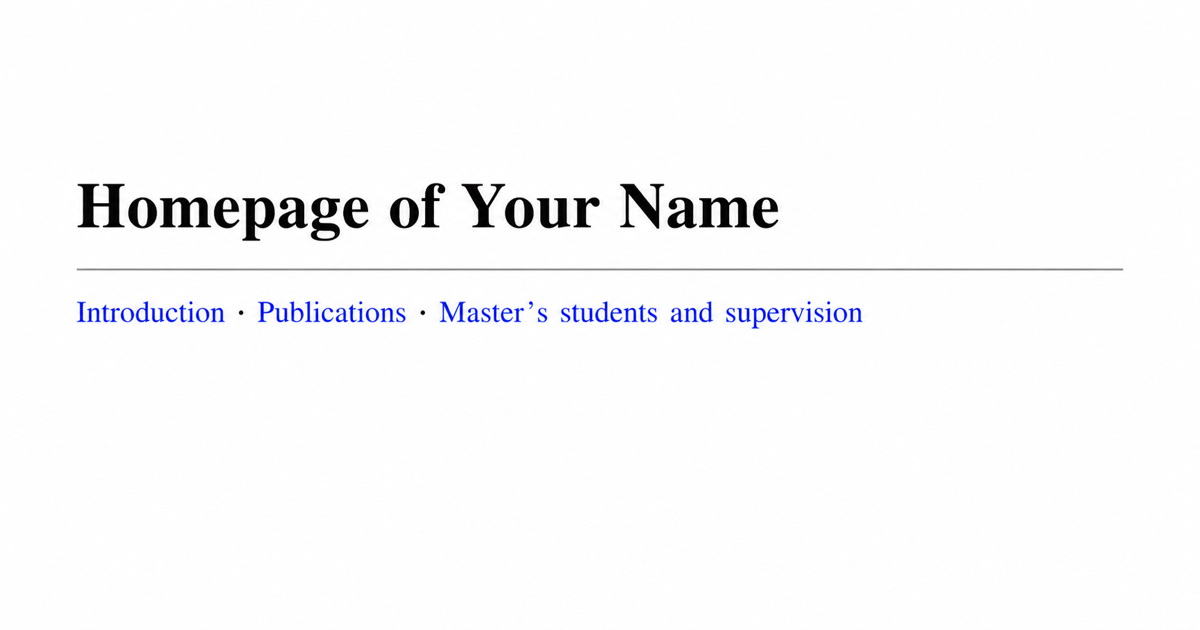
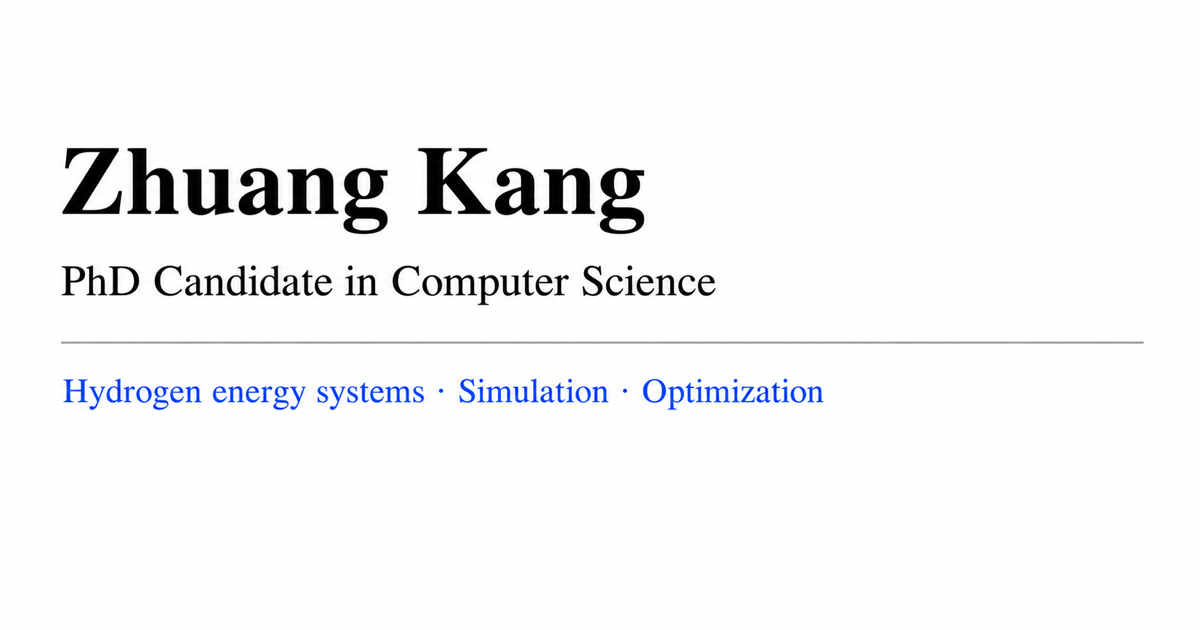
Streamline academic profile content

diff --git a/app/page.tsx b/app/page.tsx
@@ -1,93 +1,85 @@
 const publications = [
   {
-    title: "Title of your most recent publication",
-    authors: "Your Name and Co-author Name",
-    venue: "Journal or Conference Name, 2026",
-    href: "https://doi.org/",
-  },
-  {
-    title: "A second publication title belongs here",
-    authors: "Your Name and Collaborator Name",
-    venue: "Journal or Conference Name, 2025",
-    href: "https://doi.org/",
-  },
-  {
-    title: "An earlier article, chapter, or working paper",
-    authors: "Your Name",
-    venue: "Publisher or Working Paper Series, 2024",
-    href: "https://doi.org/",
+    title: "A Review of Model-Based Optimization for Hydrogen Refueling Stations",
+    authors:
+      "Zhuang Kang, Jacob de Nobel, Michael Emmerich, Thomas Bäck, and Yingjie Fan",
+    venue:
+      "Advances in Evolutionary and Deterministic Methods for Design, Optimization and Control, Springer, 2026",
+    href: "https://link.springer.com/chapter/10.1007/978-3-032-21893-3_17",
   },
 ];
 
-const students = [
+const formerStudents = [
   {
-    name: "Student name",
-    topic: "Master’s thesis topic",
-    period: "2025–2026",
+    name: "Dunxiang Lu",
+    topic:
+      "Energy Management for Hydrogen Refueling Stations: A Synergistic Approach of Cascade Compression Architecture and Deep Reinforcement Learning",
   },
   {
-    name: "Student name",
-    topic: "Master’s thesis topic",
-    period: "2025–2026",
+    name: "Di Xie",
+    topic:
+      "Deep Reinforcement Learning vs. Engineering Rules for Hybrid EV/FCEV Charging Hub Scheduling with Cascade Hydrogen Storage",
   },
+];
+
+const currentStudents = [
   {
-    name: "Student name",
-    topic: "Master’s thesis topic",
-    period: "2024–2025",
+    name: "Dongjie Chen",
+    topic:
+      "Incremental Techno-Economic Analysis of RL-Controlled Cascade Compression-Storage in Hydrogen Refueling Stations",
   },
 ];
 
 export default function Home() {
   return (
     <main id="top">
-      <h1>Homepage of Your Name</h1>
+      <h1>Zhuang Kang</h1>
 
       <section className="profile" aria-label="Profile and contact information">
         <div
           className="photoPlaceholder"
           role="img"
-          aria-label="Placeholder for your photograph"
+          aria-label="Placeholder for a photograph of Zhuang Kang"
         >
           Your photo
         </div>
 
         <div className="contact" id="contact">
           <p>
-            <strong>Your Name</strong>
+            <strong>Zhuang Kang</strong>
             <br />
-            Professor / Researcher
+            PhD Candidate in Computer Science
             <br />
-            <a href="https://www.example.edu/">Department Name</a>
+            <a href="https://liacs.leidenuniv.nl/">
+              Leiden Institute of Advanced Computer Science
+            </a>
             <br />
-            <a href="https://www.example.edu/">University Name</a>
+            <a href="https://www.universiteitleiden.nl/en">Leiden University</a>
             <br />
-            Street and building
+            Einsteinweg 55
             <br />
-            Postal code, City, Country
+            2333 CC Leiden, The Netherlands
           </p>
 
           <p>
             <strong>Email:</strong>{" "}
-            <a href="mailto:your.name@university.edu">
-              your.name@university.edu
-            </a>
-            <br />
-            <strong>Address:</strong>{" "}
-            <a href="https://maps.google.com/?q=University">
-              view on map
+            <a href="mailto:z.kang@liacs.leidenuniv.nl">
+              z.kang@liacs.leidenuniv.nl
             </a>
           </p>
 
           <p>
-            <strong>Publications:</strong>{" "}
-            <a href="https://scholar.google.com/">Google Scholar</a>,{" "}
-            <a href="https://orcid.org/">ORCID</a>,{" "}
-            <a href="#publications">selected publications below</a>
+            <strong>Profiles:</strong>{" "}
+            <a href="https://orcid.org/0009-0009-8694-1947">ORCID</a>,{" "}
+            <a href="#publications">publications</a>
           </p>
         </div>
 
         <nav aria-label="Page sections">
           <ul>
+            <li>
+              <a href="#recent-activities">Recent activities</a>
+            </li>
             <li>
               <a href="#introduction">Introduction</a>
             </li>
@@ -97,11 +89,25 @@ export default function Home() {
             <li>
               <a href="#supervision">Master’s students and supervision</a>
             </li>
-            <li>
-              <a href="#contact">Contact</a>
-            </li>
           </ul>
         </nav>
+      </section>
+
+      <hr />
+
+      <section id="recent-activities">
+        <h2>Recent activities</h2>
+        <hr />
+        <ul>
+          <li>
+            Our review paper, “A Review of Model-Based Optimization for Hydrogen
+            Refueling Stations,” was published by Springer in June 2026. {" "}
+            <a href="https://link.springer.com/chapter/10.1007/978-3-032-21893-3_17">
+              Read the paper
+            </a>
+            .
+          </li>
+        </ul>
       </section>
 
       <hr />
@@ -110,15 +116,21 @@ export default function Home() {
         <h2>Introduction</h2>
         <hr />
         <p>
-          I am a researcher and educator interested in questions that matter
-          both within the university and beyond it. My work combines careful
-          analysis with open collaboration, with the aim of producing research
-          that is rigorous, clearly communicated, and useful to other scholars,
-          students, and practitioners.
+          I am Zhuang Kang (康庄), a PhD candidate in computer science at Leiden
+          University, supervised by Yingjie Fan and Thomas Bäck. I work on
+          HyPro, a Dutch hydrogen research project, where I develop a digital
+          twin of a PEM electrolyzer.
         </p>
+        <p>My research focuses on:</p>
+        <ol>
+          <li>
+            simulation and black-box optimization of electrolyzers; and
+          </li>
+          <li>optimal control of hydrogen energy systems.</li>
+        </ol>
         <p>
-          This text can be replaced with your biography, current position,
-          research interests, and academic background.
+          With a background in mathematics, I now work at the intersection of
+          modeling, optimization, and hydrogen energy systems.
         </p>
       </section>
 
@@ -127,10 +139,6 @@ export default function Home() {
       <section id="publications">
         <h2>Publications</h2>
         <hr />
-        <p>
-          A complete list of publications can be found on my{" "}
-          <a href="https://scholar.google.com/">Google Scholar profile</a>.
-        </p>
         <ol className="publicationList">
           {publications.map((publication) => (
             <li key={publication.title}>
@@ -147,26 +155,41 @@ export default function Home() {
       <section id="supervision">
         <h2>Master’s students and supervision</h2>
         <hr />
-        <p>
-          I supervise master’s work that is well scoped, methodologically sound,
-          and connected to a meaningful research question.
-        </p>
 
-        <h3>Current and recent master’s students</h3>
+        <h3>Completed master’s theses</h3>
         <ul>
-          {students.map((student, index) => (
-            <li key={`${student.name}-${index}`}>
-              <strong>{student.name}</strong> ({student.period}). {student.topic}.
+          {formerStudents.map((student) => (
+            <li key={student.name}>
+              <strong>{student.name}:</strong> {student.topic}
+            </li>
+          ))}
+        </ul>
+
+        <h3>Current master’s students</h3>
+        <ul>
+          {currentStudents.map((student) => (
+            <li key={student.name}>
+              <strong>{student.name}:</strong> {student.topic}
             </li>
           ))}
         </ul>
 
         <h3>Prospective students</h3>
+        <p>I welcome students interested in:</p>
+        <ol>
+          <li>optimal control of energy systems; or</li>
+          <li>multiphysics simulation with OpenFOAM.</li>
+        </ol>
         <p>
-          If you are interested in working with me, please send a short
-          introduction, the name of your programme, and one or two possible
-          research questions by{" "}
-          <a href="mailto:your.name@university.edu">email</a>.
+          To get in touch, send a short {" "}
+          <a href="mailto:z.kang@liacs.leidenuniv.nl">email</a> with your name,
+          degree programme, and preferred topic. I will reply and arrange a
+          meeting.
+        </p>
+        <p>
+          Students have considerable freedom to develop their own research
+          direction. I value open discussion about research goals, timelines,
+          and practical concerns.
         </p>
       </section>
 

diff --git a/app/layout.tsx b/app/layout.tsx
@@ -15,21 +15,21 @@ export async function generateMetadata(): Promise<Metadata> {
 
   return {
     metadataBase: baseUrl,
-    title: "Your Name — Academic Profile",
+    title: "Zhuang Kang — PhD Candidate in Computer Science",
     description:
-      "Research, publications, master’s students, supervision, and contact information.",
+      "Zhuang Kang is a PhD candidate at LIACS, Leiden University, researching hydrogen energy systems, electrolyzer simulation, and optimization.",
     openGraph: {
-      title: "Your Name — Academic Profile",
+      title: "Zhuang Kang — PhD Candidate in Computer Science",
       description:
-        "Research, publications, master’s students, supervision, and contact information.",
+        "Research on hydrogen energy systems, electrolyzer simulation, and optimization at Leiden University.",
       type: "profile",
       images: [new URL("/og.png", baseUrl).toString()],
     },
     twitter: {
       card: "summary_large_image",
-      title: "Your Name — Academic Profile",
+      title: "Zhuang Kang — PhD Candidate in Computer Science",
       description:
-        "Research, publications, master’s students, supervision, and contact information.",
+        "Research on hydrogen energy systems, electrolyzer simulation, and optimization at Leiden University.",
       images: [new URL("/og.png", baseUrl).toString()],
     },
     icons: {
